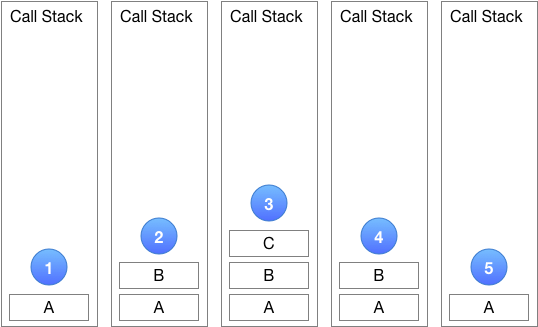
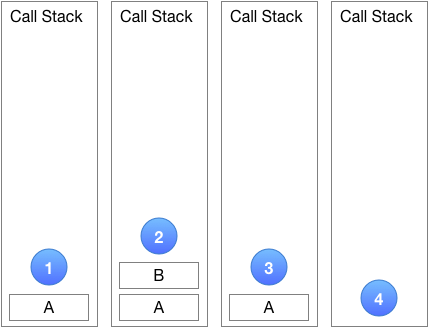
reworded description of the callstack

diff --git a/fundamentals/event_loop.md b/fundamentals/event_loop.md
@@ -33,9 +33,14 @@ while (waiting_for_event) {
 
 ## Call Stack
 
-In Figure 1 below, when function **A** ① calls function **B** ②, which in turn calls function **C** ③, the JavaScript engine must keep track where function **B** was at the moment that **C** was called, so that it can continue executing **B** when function **C** returns ④ . The same applies to function **A** when function **B** returns ⑤.
+The JavaScript engine maintains a [call stack](https://developer.mozilla.org/en-US/docs/Glossary/Call_stack) to keep track of nested function calls. (The call stack is similar to a JavaScript array to which items are pushed and from which items are popped.)
 
-For this purpose the JavaScript engine maintains a [call stack](https://developer.mozilla.org/en-US/docs/Glossary/Call_stack) as shown in Figure 1, The call stack is a first-in, first-out data structure. When a function is called it is pushed onto the call stack and when it returns it is popped of the call stack.
+Figure 1 below depicts the call stack for a scenario where function **A**() calls function **B**(). The currently executing function is always the one at the top of the call stack. In this case, execution starts with function **A**().
+
+1. The JavaScript engine pushes **A**() on the call stack and starts its execution.
+2. Function **A**() calls function **B()**: the JavaScript engine suspends the execution of **A**() (taking note where it left off), pushes **B**() on the call stack and starts executing **B**().
+3. When function **B**() returns, the JavaScript engine pops **B**() off the stack. Since function **A**() is now again at the top the stack, the JavaScript engine resumes **A**() at the point where it left off.
+4. Finally, when function **A**() returns it is popped of the stack and with the call stack now empty, the JavaScript engine enters its event loop. 
 
 ![Call Stack](assets/call-stack.png)
 
